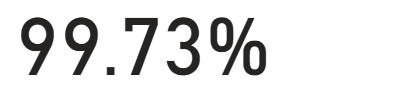
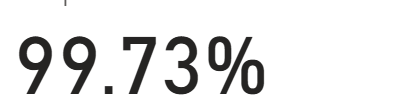
added completion rate

Changed region(s): [[0.2437, 0.1702, 0.7005, 0.9574], [0.0305, 0.1702, 0.3046, 0.9574], [0.1523, 0.0, 0.1827, 0.0638]]

diff --git a/frontend/src/pages/admin/Overview.jsx b/frontend/src/pages/admin/Overview.jsx
@@ -53,11 +53,14 @@ export default function Overview({ selectedDataset }) {
     DATASET_KEY_BY_ID[Number(selectedDataset)] ??
     null;
 
-  // Static image path for FSR Taiwan
-  const totalResponsesImg =
-    datasetKey === "fsr_taiwan_2024"
-      ? "/viz/fsr_taiwan_2024/completion_trend/total_responses.png"
-      : null;
+  // Static images for FSR Taiwan
+  const showImages = datasetKey === "fsr_taiwan_2024";
+  const totalResponsesImg = showImages
+    ? "/viz/fsr_taiwan_2024/completion_trend/total_responses.png"
+    : null;
+  const completionRateImg = showImages
+    ? "/viz/fsr_taiwan_2024/completion_trend/completion_rate.png"
+    : null;
 
   const topRegions = Array.isArray(kpis.top_regions) ? kpis.top_regions : [];
 
@@ -71,21 +74,36 @@ export default function Overview({ selectedDataset }) {
         <Filter label="Survey" /><Filter label="Date Range" />
       </div>
 
-      {/* KPI cards */}
+      {/* KPI / Static image row */}
       <div className="grid grid-cols-1 sm:grid-cols-2 lg:grid-cols-4 gap-4">
         <Card className="p-4">
           {totalResponsesImg && (
             <StaticImageCard
               title="Total Responses"
-              src={`${totalResponsesImg}?v=4`} // cache-buster
+              src={`${totalResponsesImg}?v=1`} // cache-buster
               alt="FSR Taiwan — Total Responses"
               height="h-28"
               noMargin
             />
           )}
+          {!totalResponsesImg && (
+            <KPI label="Total Responses" value={loading ? "…" : fmt(total)} sub={`Last sync: ${lastSync}`} />
+          )}
         </Card>
 
-        <KPI label="Completion Rate" value="—" sub="Target: 85%" />
+        <Card className="p-4">
+          {completionRateImg && (
+            <StaticImageCard
+              title="Completion Rate"
+              src={`${completionRateImg}?v=1`} // cache-buster
+              alt="FSR Taiwan — Completion Rate"
+              height="h-28"
+              noMargin
+            />
+          )}
+          {!completionRateImg && <KPI label="Completion Rate" value="—" sub="Target: 85%" />}
+        </Card>
+
         <KPI label="Error Rate" value="—" sub="(coming from QA checks)" />
         <KPI label="Active Researchers" value="—" sub="(coming soon)" />
       </div>
@@ -150,7 +168,6 @@ function StaticImageCard({ title, src, alt, height = "h-28", noMargin = false })
   return (
     <div className={`${noMargin ? "" : "mt-1"}`}>
       <div className="px-1 pb-1 text-[12px] font-medium text-zinc-600">{title}</div>
-      {/* Left-aligned: no mx-auto, no justify-center */}
       <div className={`${height} max-w-[360px] overflow-hidden`}>
         <img
           src={src}
